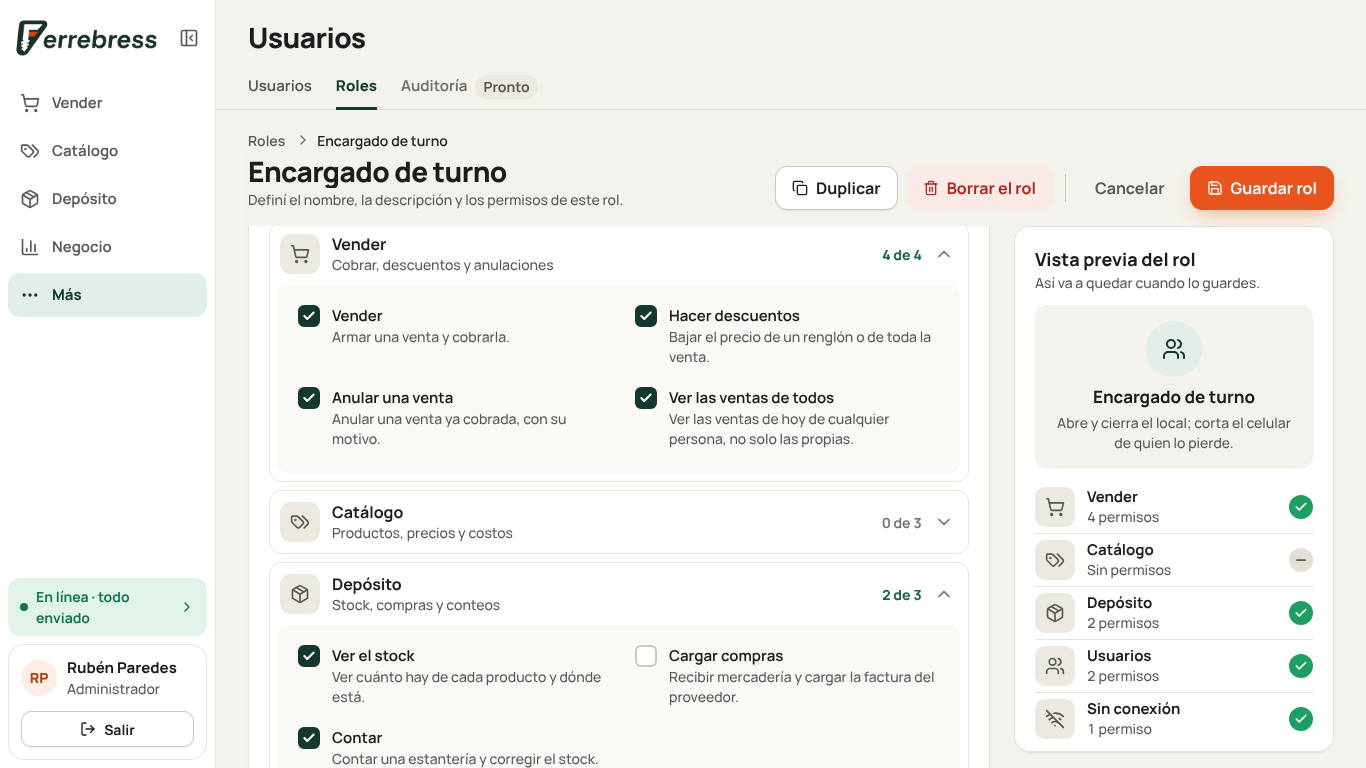
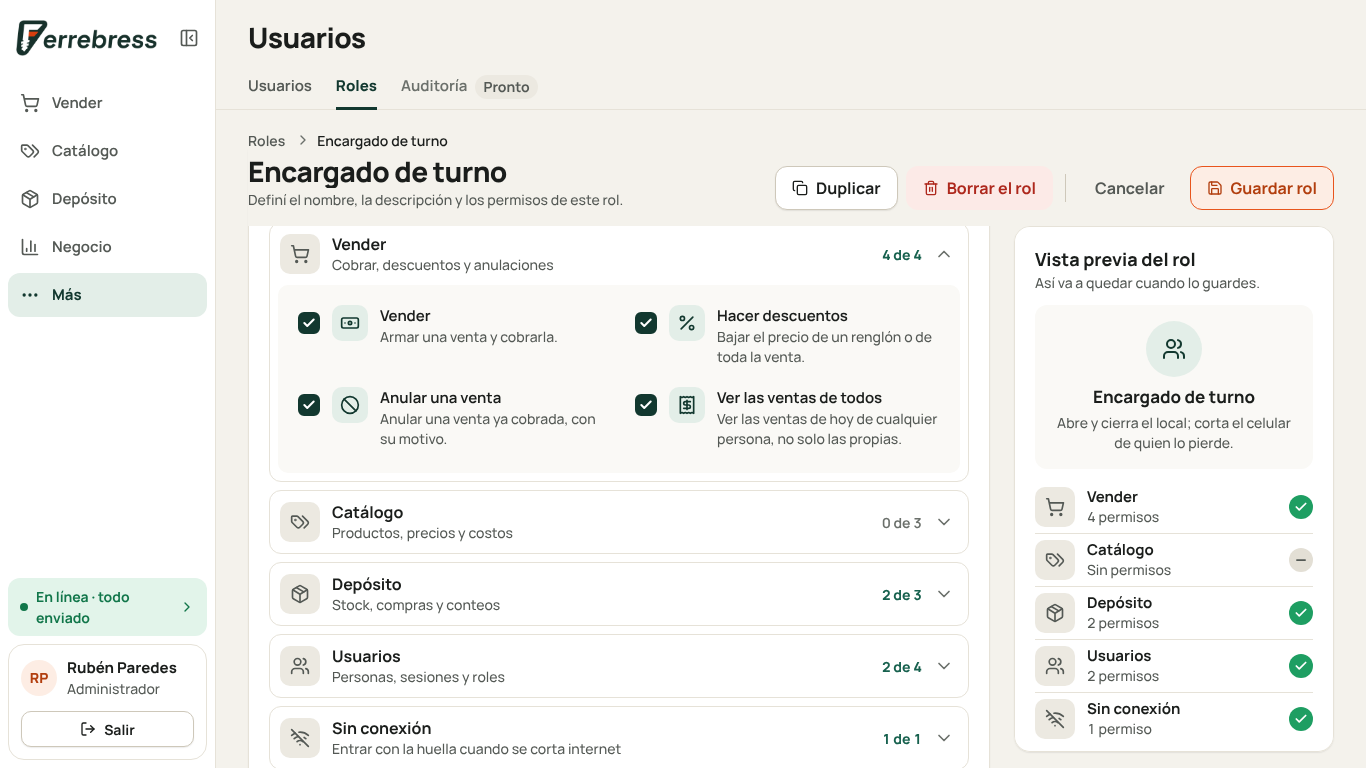
Roles: cada permiso con su ícono también en la computadora; R7.12 y R7.13 aprobadas (02b)
Claude-Session: https://claude.ai/code/session_01BmbhiYJAfQvWshUgYzn7JL

diff --git a/docs/design/mockups/users-roles/final/shared/roles.css b/docs/design/mockups/users-roles/final/shared/roles.css
@@ -101,7 +101,7 @@
 .perm-group-body[hidden] { display: none; }
 .perm-group-body.is-opening { animation: role-arrive var(--t) var(--curva) both; }
 
-.perm-item { display: grid; grid-template-columns: 22px minmax(0, 1fr); gap: 12px; align-items: start; padding: 8px 4px; border-radius: 8px; cursor: pointer; }
+.perm-item { display: grid; grid-template-columns: 22px 36px minmax(0, 1fr); gap: 12px; align-items: start; padding: 8px 4px; border-radius: 8px; cursor: pointer; }
 .perm-item.is-tied { cursor: default; }
 .perm-check { appearance: none; -webkit-appearance: none; width: 22px; height: 22px; margin: 0; border-radius: 6px; border: 2px solid var(--borde-fuerte); background: var(--superficie) center / 14px no-repeat; cursor: pointer; transition: transform var(--t-micro) var(--curva); }
 .perm-check:active { transform: scale(.9); }
@@ -170,3 +170,8 @@
 /* «Guardar rol» sin cambios: naranja apagado, sin sombra; se enciende con el primer cambio. */
 #save:disabled { opacity: 1; background: var(--accion-suave); color: var(--accion-texto); box-shadow: none; cursor: default; }
 #save:disabled .kbd { opacity: .6; }
+
+/* Cada permiso con su ícono (pedido de Carlos): blanco sin tildar, pino suave tildado. */
+.perm-icon { width: 36px; height: 36px; border-radius: 10px; display: grid; place-items: center; background: var(--superficie); border: 1px solid var(--borde); color: var(--texto-2); }
+.perm-check:checked + .perm-icon { background: var(--pino-suave); border-color: transparent; color: var(--pino); }
+.perm-item > .perm-check { margin-top: 7px; }

diff --git a/docs/design/mockups/users-roles/final/phone/index.html b/docs/design/mockups/users-roles/final/phone/index.html
@@ -42,10 +42,9 @@
   .role-stat.is-empty { color: var(--texto-3); }
   .role-stat.is-empty > .i { color: var(--texto-3); }
 
-  /* Cada permiso con su ícono, en el celular (pedido de Carlos) */
-  .perm-item { grid-template-columns: 22px 36px minmax(0, 1fr); align-items: center; }
-  .perm-icon { width: 36px; height: 36px; border-radius: 10px; display: grid; place-items: center; background: var(--superficie); border: 1px solid var(--borde); color: var(--texto-2); }
-  .perm-check:checked + .perm-icon { background: var(--pino-suave); border-color: transparent; color: var(--pino); }
+  /* En el celular, el permiso va solo con su nombre: casilla, ícono y nombre centrados */
+  .perm-item { align-items: center; }
+  .perm-item > .perm-check { margin-top: 0; }
 
   /* La pantalla del rol entra desde la derecha, como iPhone, y tapa la lista (no el menú) */
   .role-editor { position: absolute; left: 0; right: 0; top: 44px; bottom: 76px; z-index: 20; background: var(--fondo); display: flex; flex-direction: column; transform: translateX(100%); transition: transform var(--t-nav) var(--curva); }

diff --git a/docs/design/mockups/users-roles/final/shared/roles-screen.js b/docs/design/mockups/users-roles/final/shared/roles-screen.js
@@ -147,7 +147,7 @@
         var id = "perm-" + p.id;
         return '<label class="perm-item' + (tied.length ? " is-tied" : "") + '" for="' + id + '" data-mark>' +
           '<input type="checkbox" class="perm-check" id="' + id + '" data-perm="' + p.id + '"' + (on ? " checked" : "") + (tied.length ? " disabled" : "") + ">" +
-          (desktop ? "" : '<span class="perm-icon">' + ico(p.icon) + "</span>") + // en el celular, cada permiso con su ícono (pedido de Carlos)
+          '<span class="perm-icon">' + ico(p.icon) + "</span>" + // cada permiso con su ícono (pedido de Carlos)
           '<span class="perm-text"><span class="perm-name">' + esc(p.name) + "</span>" +
           (desktop ? '<span class="perm-explanation">' + esc(p.exp) + "</span>" : "") +
           (tied.length ? '<span class="perm-tied">' + ico("lock", "i-s") + "<span>" + (desktop ? "Va incluido en " : "Lo incluye ") +

diff --git a/docs/chapters/02-users/screens.md b/docs/chapters/02-users/screens.md
@@ -6,7 +6,7 @@ Se diseñan una por vez, en este orden (constitución, paso 2). Las maquetas se 
 | # | Pantalla | Qué se tiene que poder hacer | Maqueta |
 |---|---|---|---|
 | 1 | Usuarios (etapa a), en Más → Usuarios | Ver a las personas, autorizar, cambiar el nombre o el correo, borrar, dar de baja y de alta; en la tarjeta de cada persona, sus sesiones y sus celulares con huella; «Se perdió un celular» | **Computadora, aprobada:** `mockups/users-a/final/desktop/`, copia de la variante 1 del director (primera ronda) con «Se perdió un celular» como botón secundario al lado de «Autorizar a alguien», en Más → Usuarios, con las teclas solo con Alt y, al abrir, la primera de la lista elegida (pedido de Carlos). **Celular, aprobada:** `mockups/users-a/final/phone/`, copia de la variante 1 de la tercera ronda, «Entrar a la tarjeta» (`mockups/users-a3/phone/variant-1-push/`), con «Se perdió un celular» resaltado en rojo suave y con borde, para que se distinga de las personas y se vea que se toca; sin «En espejo» y con la barra de la tarjeta de color liso; con el buscador y los filtros de la computadora en un diálogo que abre «Buscar usuario», al lado del título (pedido de Carlos); la cabecera, las cuentas, «Se perdió un celular» y la tarjeta, con el estilo de la referencia que pasó Carlos (diseño de 02, § 8) |
-| 2 | Roles (etapa b), en Más → Usuarios, pestaña Roles | Buscar un rol (R7.12), crear uno con nombre y descripción, asignarle permisos, darlo o sacarlo a las personas y guardarlo todo junto (R7.13); duplicar y borrar (R7.3) | **Computadora, aprobada; celular, a aprobar:** la maqueta final (`mockups/users-roles/final/`) se arma desde la referencia que eligió Carlos (`mockups/users-roles/reference/copilot-role.webp`), con el menú de la aplicación. Lo que pidió de ella: la lista de roles con buscador y «Nuevo rol», y de cada rol su ícono, nombre, descripción, cuántos permisos, cuántas personas y sus iniciales; la pantalla del rol con «1 Información del rol» (nombre, descripción con «n/200»), «2 Asignar permisos» (un grupo plegable por parte de la aplicación, con su ícono, su detalle y «n de m», y adentro una casilla por permiso con su explicación) y «3 Quiénes lo tienen»; «Cancelar» y «Guardar rol» arriba a la derecha (en el celular, fijos abajo); a la derecha, en la computadora, la vista previa del rol (cómo se ve y cuántos permisos da de cada grupo); en el celular, sin vista previa, cada permiso con su ícono y cada rol de la lista con sus dos números en grande, en recuadros. Sin cambios, «Guardar rol» va apagado y se enciende con el primer cambio; al abrir un rol, solo el primer grupo de permisos está desplegado |
+| 2 | Roles (etapa b), en Más → Usuarios, pestaña Roles | Buscar un rol (R7.12), crear uno con nombre y descripción, asignarle permisos, darlo o sacarlo a las personas y guardarlo todo junto (R7.13); duplicar y borrar (R7.3) | **Computadora, aprobada; celular, a aprobar:** la maqueta final (`mockups/users-roles/final/`) se arma desde la referencia que eligió Carlos (`mockups/users-roles/reference/copilot-role.webp`), con el menú de la aplicación. Lo que pidió de ella: la lista de roles con buscador y «Nuevo rol», y de cada rol su ícono, nombre, descripción, cuántos permisos, cuántas personas y sus iniciales; la pantalla del rol con «1 Información del rol» (nombre, descripción con «n/200»), «2 Asignar permisos» (un grupo plegable por parte de la aplicación, con su ícono, su detalle y «n de m», y adentro una casilla por permiso con su explicación) y «3 Quiénes lo tienen»; «Cancelar» y «Guardar rol» arriba a la derecha (en el celular, fijos abajo); a la derecha, en la computadora, la vista previa del rol (cómo se ve y cuántos permisos da de cada grupo); cada permiso con su ícono; en el celular, sin vista previa y cada rol de la lista con sus dos números en grande, en recuadros. Sin cambios, «Guardar rol» va apagado y se enciende con el primer cambio; al abrir un rol, solo el primer grupo de permisos está desplegado |
 | 3 | Los roles de una persona (etapa b), al autorizarla y en su tarjeta | Elegir los roles de una persona al autorizarla y cambiárselos después, viendo qué suma y qué pierde | **Computadora, aprobada:** la variante 1 del director, «La tarjeta» (`mockups/users-person-roles/desktop/variant-1-card/`), tal cual. **Celular, aprobada:** la variante 2, «Lo que puede hacer» (`mockups/users-person-roles/phone/variant-2-abilities/`), con su forma y sus ideas («¿Qué puede hacer…?», «Igual que alguien», lo que puede abajo), pero los interruptores son de roles y no de permisos, como en la computadora: se asignan roles en los dos (R7.5, 00 · R1.5; pedido de Carlos). Lo que pide una regla y la maqueta no muestra lo agrega el código siguiendo las reglas, como la descripción de cada rol (R7.3). En el diálogo de autorizar va primero el correo y después el nombre, que es opcional; el cursor arranca en el correo (pedido de Carlos) |
 | 4 | Sin permiso (etapa b), al abrir algo sin permiso o al perderlo usándolo | Entender qué permiso falta, quién lo tiene y quién lo da, copiar el pedido y seguir con lo que sí se puede | **Computadora y celular, aprobadas:** la variante 1 del director, «La puerta que explica» (`mockups/app-no-permission/desktop/variant-1-door/` y `mockups/app-no-permission/phone/variant-1-door/`), tal cual y sin maqueta final (pedido de Carlos) |
 

diff --git a/docs/design/mockups/users-roles/final/changes.md b/docs/design/mockups/users-roles/final/changes.md
@@ -129,8 +129,9 @@ Las personas y los roles son inventados; quien mira es Rubén Paredes, con Admin
   pino a la izquierda, el nombre más grande y, abajo, los dos datos en recuadros gris suave con el
   número en grande: «🔑 15 permisos» y las iniciales con «2 personas» (como mucho dos círculos: con
   más de dos personas, una inicial y «+N»). La computadora queda como se aprobó.
-- **En el celular, cada permiso lleva su ícono** al lado de la casilla, que se pone pino suave al
-  tildarlo (pedido de Carlos). Los íconos de los grupos de ejemplo también son de ejemplo.
+- **Cada permiso lleva su ícono** al lado de la casilla, en la computadora y en el celular, que se
+  pone pino suave al tildarlo (pedido de Carlos). Los íconos de los grupos de ejemplo también son de
+  ejemplo.
 - **«Guardar rol» arranca apagado** (naranja suave, sin sombra, sin tocarse) y se pone naranja fuerte
   con el primer cambio, para que llame la atención; si se deshace el cambio, vuelve a apagarse. En
   un duplicado arranca encendido, porque la copia todavía no se guardó (pedido de Carlos).

diff --git a/docs/chapters/02-users/summary.md b/docs/chapters/02-users/summary.md
@@ -3,7 +3,7 @@
 Quién puede entrar, autorizar y dar de baja, y las sesiones y celulares con huella de cada persona.
 Reglas completas en [rules.md](rules.md).
 
-**Estado:** etapa a (personas y sesiones), aprobada. Etapa b (roles y permisos), aprobada; la pantalla de roles se rehace (R7.12 y R7.13 nuevas, a aprobar).
+**Estado:** etapa a (personas y sesiones), aprobada. Etapa b (roles y permisos), aprobada; la pantalla de roles se rehace (R7.12 y R7.13, aprobadas).
 
 ## Cada regla en una línea
 
